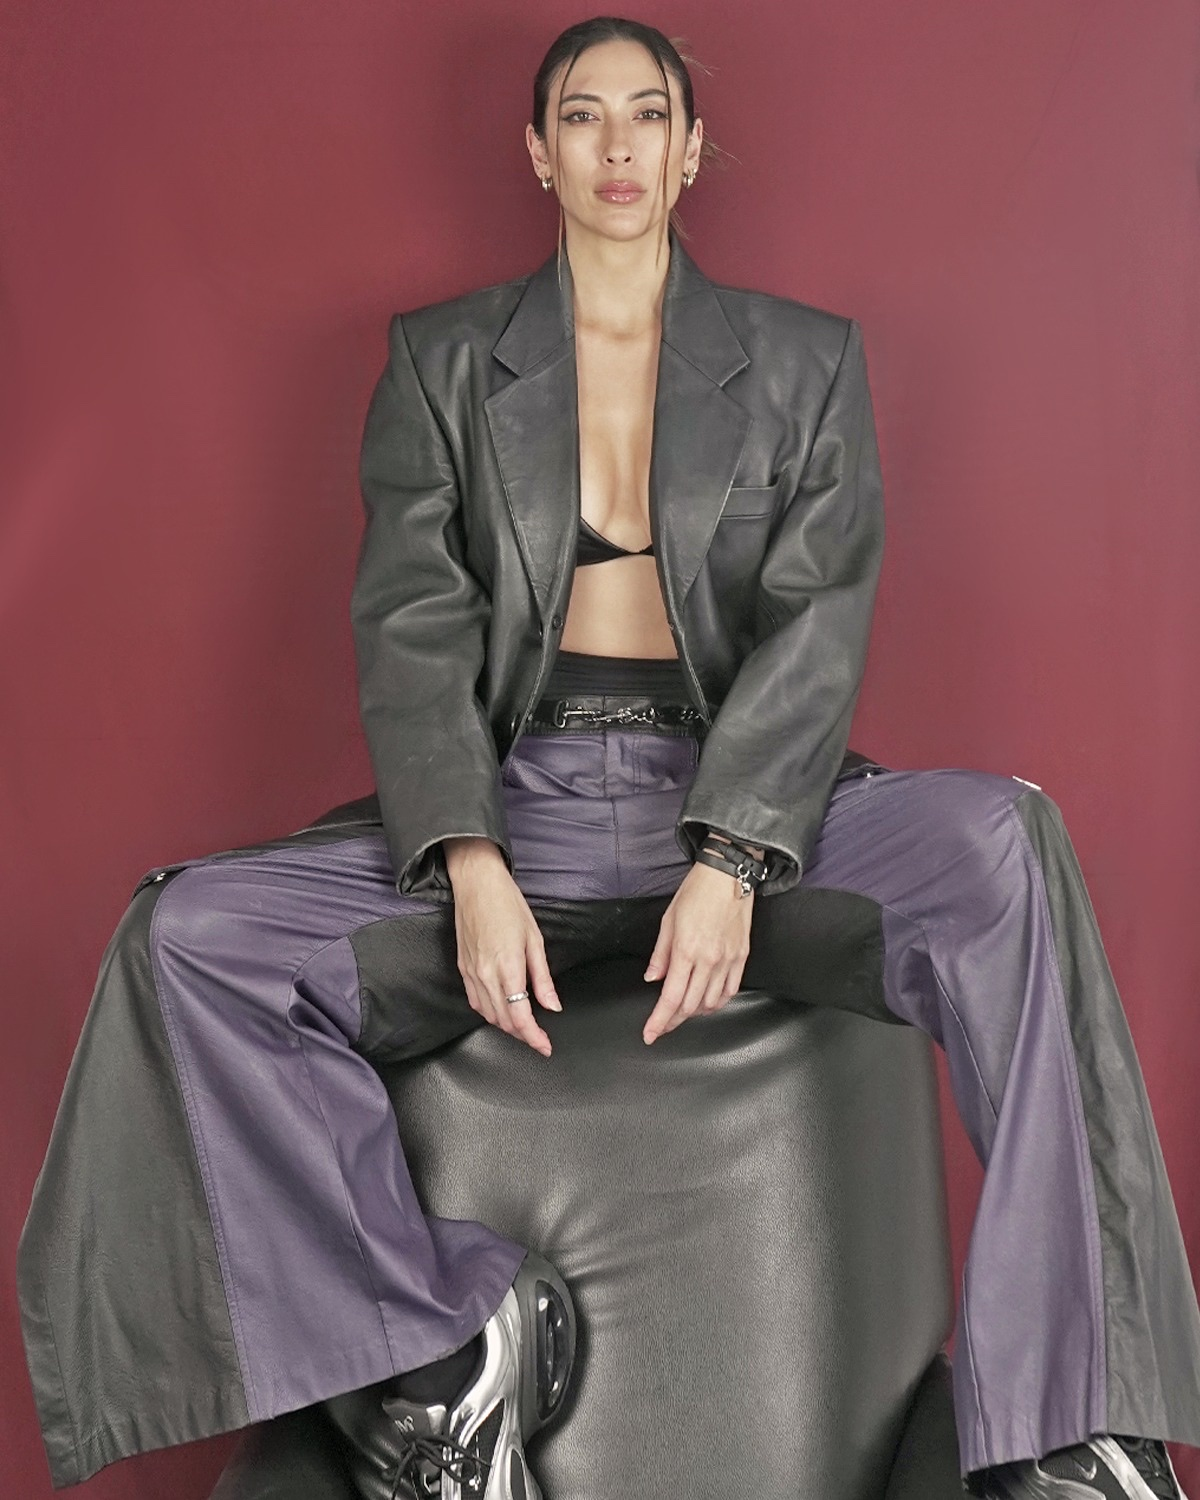
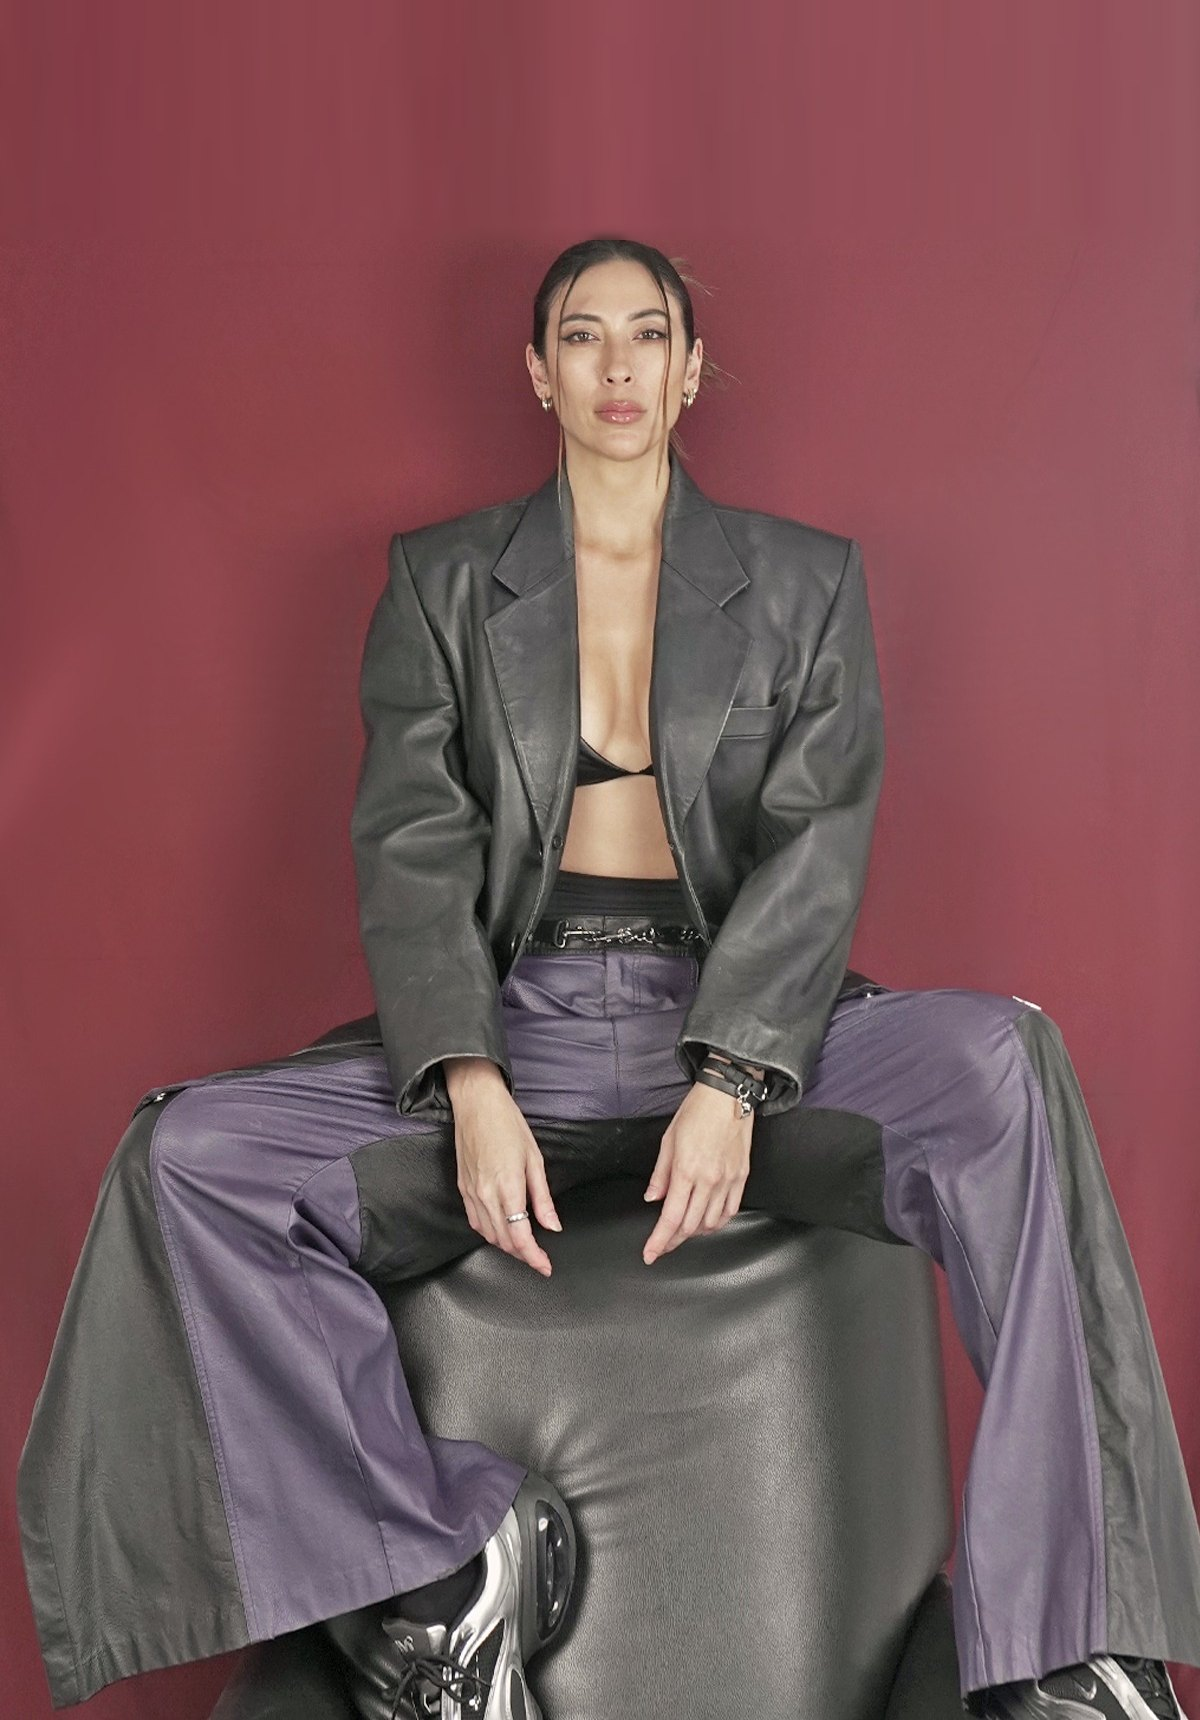
Form photos: original files from Miaow
Studio and Day swapped from WhatsApp crops to the originals. Night gets
extra wall above her head so the name bar no longer covers her face.

diff --git a/index.html b/index.html
@@ -79,7 +79,7 @@
       <div class="binder" data-binder>
       <div class="forms" role="tablist" aria-label="Forms">
         <button class="form-tab" role="tab" id="tab-studio" aria-controls="card-studio" aria-selected="true" tabindex="0"><img src="assets/form-studio.jpg" alt="" style="object-position:30% 20%" loading="lazy" decoding="async"><span><b>Studio form</b><small>No. 001, Holo Rare</small></span></button>
-        <button class="form-tab" role="tab" id="tab-night" aria-controls="card-night" aria-selected="false" tabindex="-1"><img src="assets/form-night.jpg" alt="" style="object-position:50% 12%" loading="lazy" decoding="async"><span><b>Night form</b><small>No. 002, Mythic Rare</small></span></button>
+        <button class="form-tab" role="tab" id="tab-night" aria-controls="card-night" aria-selected="false" tabindex="-1"><img src="assets/form-night.jpg" alt="" style="object-position:50% 22%" loading="lazy" decoding="async"><span><b>Night form</b><small>No. 002, Mythic Rare</small></span></button>
         <button class="form-tab" role="tab" id="tab-day" aria-controls="card-day" aria-selected="false" tabindex="-1"><img src="assets/form-day.jpg" alt="" style="object-position:50% 25%" loading="lazy" decoding="async"><span><b>Day form</b><small>No. 003, Rare</small></span></button>
       </div>
 
